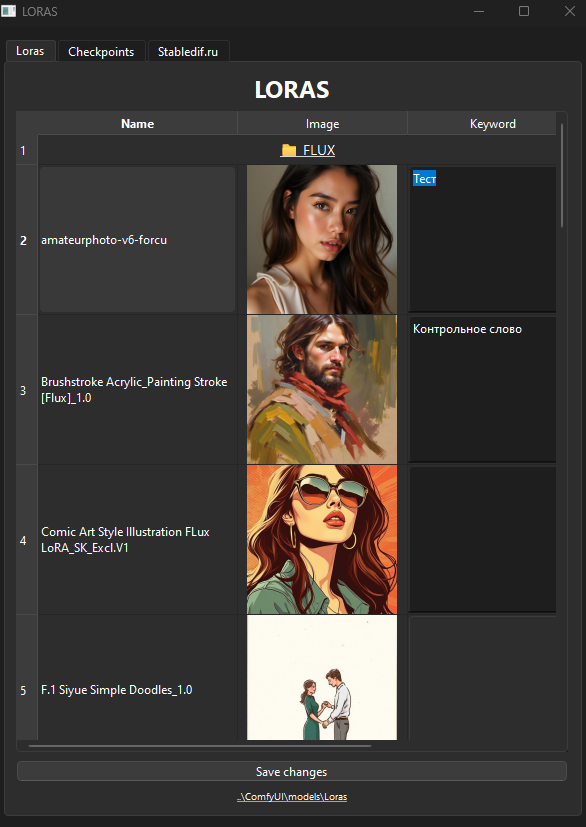
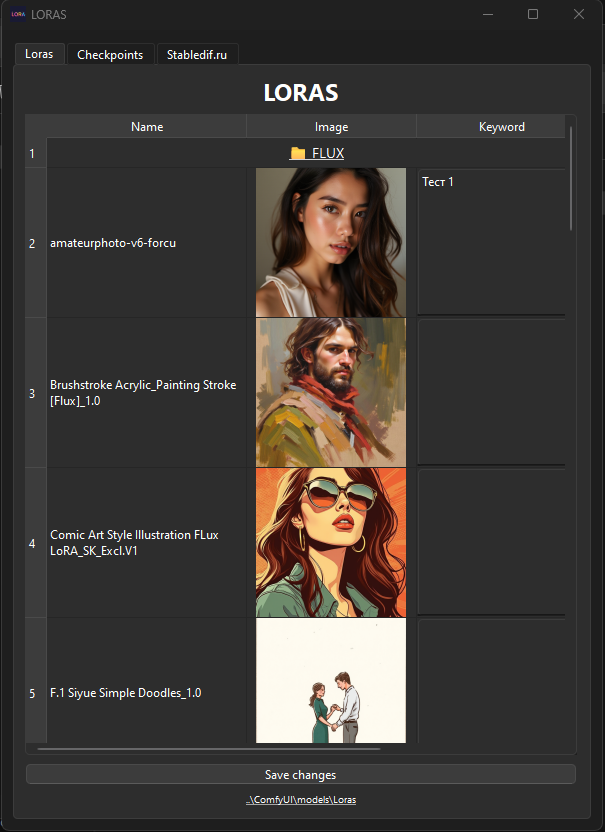
update02052025

diff --git a/CatalogLoras.py b/CatalogLoras.py
@@ -29,6 +29,12 @@ class LoraImageViewer(QWidget):
     def __init__(self):
         super().__init__()
         self.setWindowTitle("LORAS")
+
+        # ✅ Устанавливаем иконку окна
+        icon_path = os.path.join(os.path.dirname(__file__), "logo_loras.ico")
+        if os.path.exists(icon_path):
+            self.setWindowIcon(QIcon(icon_path))
+
         self.resize(600, 800)
 
         self.target_size = 150
